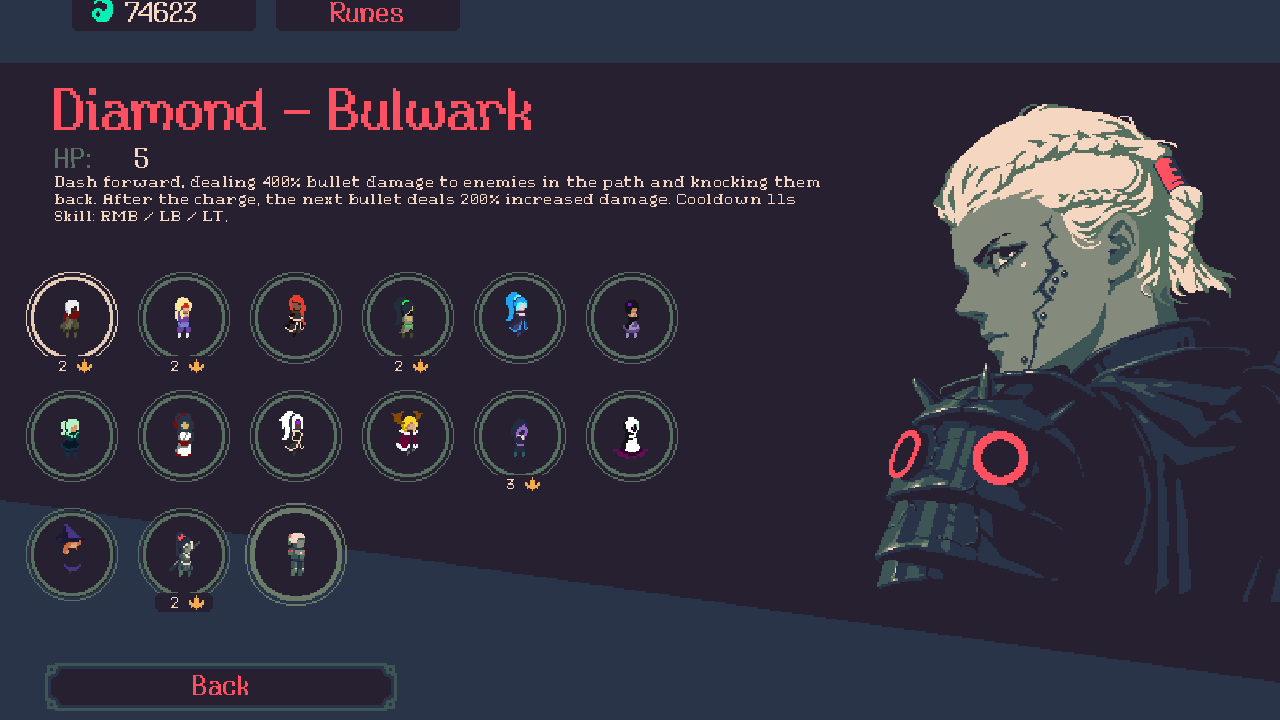
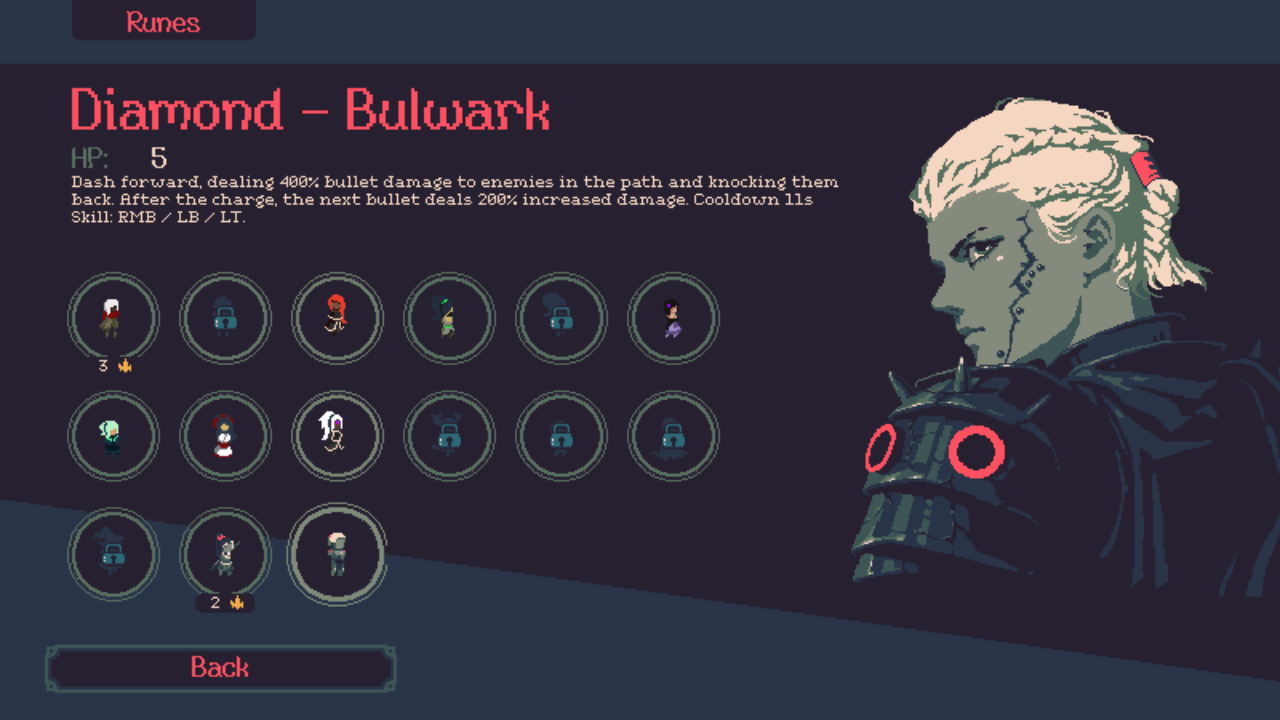
Refresh README gallery to remove obsolete currency UI

diff --git a/validation/ReadmeScreenshotChecks.cs b/validation/ReadmeScreenshotChecks.cs
@@ -1,0 +1,31 @@
+using System.Collections;
+using System.Linq;
+using UnityEngine;
+using UnityEngine.InputSystem;
+using UnityEngine.InputSystem.LowLevel;
+using flanne;
+using flanne.TitleScreen;
+namespace TwentyMinutes.Modernization.Validation;
+public partial class RuntimeChecks
+{
+ IEnumerator CheckReadmeScreenshots(TitleScreenController title)
+ {
+  SetPhase("readme-selector-captures");RunResume.Invalidate();var pad=InputSystem.AddDevice<Gamepad>("ReadmeScreenshotController");
+  while(!Active(title.mainMenu)||!title.mainMenu.interactable||title.mainMenu.GetComponent<CanvasGroup>().alpha<.999f)yield return null;
+  InputSystem.QueueStateEvent(fixtureMouse,new MouseState{position=new Vector2(-100,-100)});yield return null;
+  var bulwark=Characters.Data["Dimond_Portrait"];var diamond=Progression.Gates.Single(g=>g.Id=="character:Diamond");
+  var earned=Progression.State.earned.ToArray();
+  Progression.State.earned.Add("character:"+bulwark.name);Progression.State.earned.RemoveAll(id=>id==diamond.Id);Progression.Refresh();
+  yield return PadClick(pad,title.mainMenu.transform,Entries(title.mainMenu)[0].button);yield return HeaderReady(title,title.characterMenu);
+  Screen.SetResolution(1280,720,false);yield return WaitDisplay(1280,720);
+  if(!ColorfulStyle.Instance.Enabled)ColorfulStyle.Instance.Toggle();
+  int index=Characters.Slots["Dimond_Portrait"];yield return SelectorMove(pad,title.characterMenu,Entries(title.characterMenu)[index].button);
+  RequireCharacterPreview(title,index);HeaderContract(title);yield return Capture("android-bulwark.png");
+  index=Characters.Items(title.characterMenu).FindIndex(x=>x.data==diamond.Data);yield return SelectorMove(pad,title.characterMenu,Entries(title.characterMenu)[index].button);
+  RequireCharacterPreview(title,index);HeaderContract(title);
+  Require(SelectorText().Contains(diamond.Goal)&&!SelectorText().Contains("Last attempt:"),"current Diamond preview shows its concise milestone condition");
+  yield return Capture("unlock-diamond.png");
+  Progression.State.earned.Clear();Progression.State.earned.AddRange(earned);Progression.Refresh();Progression.Save();
+  SetPhase("PASS");Log("complete","Unretouched native README selectors from the published production DLL; isolated Bulwark ownership and locked Diamond fixture restored");Application.Quit(0);
+ }
+}

diff --git a/validation/RuntimeChecks.cs b/validation/RuntimeChecks.cs
@@ -119,6 +119,7 @@ public partial class RuntimeChecks:MonoBehaviour
         if(testMode=="sprite-status-visuals"){yield return CheckElementVisuals();yield break;}
         if(testMode.StartsWith("shared-runes-")){yield return CheckSharedRunes(testMode);yield break;}
         if(testMode.StartsWith("roster-header-")){yield return CheckRosterHeader(title,testMode.EndsWith("probe"));yield break;}
+        if(testMode=="readme-screenshots"){yield return CheckReadmeScreenshots(title);yield break;}
         if(testMode.StartsWith("rune-rewards-")){yield return CheckRuneRewards(testMode);yield break;}
         if(testMode.StartsWith("elements-")){yield return CheckElements(testMode);yield break;}
         if(testMode.StartsWith("elites-")){yield return CheckElites(testMode);yield break;}

diff --git a/docs/images/SOURCES.md b/docs/images/SOURCES.md
@@ -13,14 +13,14 @@ These PNGs are byte-for-byte copies of existing Windows test captures, inspected
[10 lines of base64/hex data omitted]
 
 Title/rune/Custom captures retain their recorded historical workflows. The current HUD is the1280×7201.1.7 workflow with controlled real Lilith/Ghost Friend/stat acquisitions; paired900×900/1024×768 and fresh-process Continue renders are inspected. The upgrade chart is the native Magic Lens selection in the current run; no natural progression claim. The native Options and concise Diamond preview are actual1920×1080 controller workflows. Source evidence remains local; proprietary game inputs and raw profiles are not distributed.
 
-The Bulwark selection capture comes from S2/run-22. Its displayed description and starting HP were compared with the current installed 1.1.2 `Assets/characters/characters.json`; both match. Its unlocked roster is a test profile.
+The Bulwark and Diamond selector captures now come from the published v1.3.5 production DLL. The validation-only fixture waits for the native title transition, selects each character through actual controller navigation, verifies the exact PointsUI owner is hidden and Runes is aligned left, then restores the isolated profile ownership. No live profile or game installation was changed.
 
 The current native Options capture includes Metrics and Zoom out with an opaque background. Fullscreen request flags are verified while the isolated renderer stays windowed, preserving the desktop. Companion HUD captures at1024×768 verify the corrected right skill column. No phone deployment/runtime of1.1.5 is claimed.
 # Android updater capture
@@ -32,3 +32,9 @@ The1.1.7 HUD and interaction captures are current127 controlled native acquisiti
 The final1.1.7 interaction layout supersedes127: currentrun-131 places the native path left beside its description and aligned Benefits/Penalties in the right column. Square/4:3/16:9 full bounds and rendered captures are verified, including character portrait and weapon penalty. Native Options125 has no Metrics shortcut suffix. All gallery files are exact unretouched evidence copies.
 
[1 lines of base64/hex data omitted]
+
[1 lines of base64/hex data omitted]
+
+## README gallery refresh — 2026-10-29
+
+The two selector images, Custom menu and exploration contents above are refreshed with inspected unretouched evidence. Current selectors show no wallet; Custom says Score only; exploration shows Score. The older `element-wind.png`, `elite-aura.png`, `elite-tiers.png`, `poi-glow.png`, `results-controller.png` illustrations retain Credits/Earned labels and are no longer embedded in the current README. Their files and original provenance remain historical evidence. The current sprite-status capture already illustrates wind cues and an enlarged elite. No runtime feature was removed or changed.

diff --git a/README.md b/README.md
@@ -40,15 +40,11 @@ Lightning gains a small stunning splash and Mastery chains scaled by Pierce + Bo
 
 ![Sprite-masked burning, electrical and wind effects, including an enlarged elite](docs/images/element-status.png)
 
-![Gale pulse and wind-control cues](docs/images/element-wind.png)
-
 *Controlled Windows fixtures show the actual new effects. Both artwork modes, native menus, mixed builds, current/older Continue and scenario transitions are verified; natural playtest balance remains for player feedback. Final exact-package and public-download acceptance is recorded in [PROGRESS.md](docs/PROGRESS.md).*
 
 ### Face enhanced regular enemies
 
 Every **200 kills** earns an Elite opportunity: **3× health and XP**, **25% larger width/height**, a thin glowing **red sprite contour**, and **50% faster firing** for elite Eyes. The contour follows the animation; native facing retains the larger dimensions, including Forest exploders.
-
-![Larger Forest exploder with a glowing sprite outline beside an ordinary exploder](docs/images/elite-aura.png)
 
 **Endless** adds Elite+ after every **10 defeated Elites**, and Elite++ after every **5 defeated Elite+** enemies. Each tier repeats the previous multipliers:
 
@@ -60,8 +56,6 @@ Every **200 kills** earns an Elite opportunity: **3× health and XP**, **25% lar
 
 Scheduled minibosses/bosses remain separate. Higher-tier claims preserve owed lower-tier promotions, and all counters survive Continue. Other modes retain ordinary Elites. [Full rules](docs/ELEMENTS.md#enhanced-regular-enemies).
 
-![Elite, Elite+ and Elite++ with animated red, amber and violet outlines](docs/images/elite-tiers.png)
-
 *Controlled native Windows tests use actual elite defeats and XP collection, with the ordinary kill counter advanced to exercise tier boundaries. Both artwork modes, three viewport shapes, firing intervals, saved cadence and ordinary pool reuse are verified; these captures do not establish natural full-run balance.*
 
 ### Play the Android additions with desktop controls
@@ -70,7 +64,7 @@ Charge Cannon brings three weapon evolutions. Gale and Bulwark bring their chara
 
 ![Diamond - Bulwark in the native Windows character selector, with its dash skill and portrait](docs/images/android-bulwark.png)
 
-*Windows selection test using an unlocked test profile. The displayed Bulwark description and starting HP match the prepared v1.1.2 character data.*
+*Unretouched capture using the published v1.3.5 game DLL. Only Bulwark ownership is granted for this isolated test; the current selector hides the obsolete currency badge and aligns Runes left.*
 
 ### Read your build without a panel
 
@@ -106,10 +100,6 @@ When one target gains an attribute and loses another, it appears **once under Mi
 
 Uncollected chests **do not expire**. Normal fog reveal keeps them visible when their edge pointer hides. Within eight world units, a small glow reveals content: teal XP, rose healing, violet magnet, blue freeze, orange frenzy, lime upgrades and pink character upgrades. It fades with distance; boss presentation is unchanged.
 
-![Nearby exploration chests reveal their content with native colored glow](docs/images/poi-glow.png)
-
-*Controlled Windows test with fixed Magnet, Freeze and Frenzy rewards in Sprites Reborn. Both artwork modes and square/4:3/16:9 views are verified.*
-
 Mint chests appear every **60–90 combat seconds**, with at most **three uncollected exploration chests**. Common rewards can appear together in different directions; the strongest upgrades are rarer. Rewards include XP, healing, magnet, freeze, frenzy and eligible native upgrades. **Exploration chests no longer award credits.**
 
 Open-map placement varies across **5–30 seconds of walking**, with viewport and wall limits. XP chests give **30% of the current level's full requirement**, including earned XP bonuses. Edge indicators show the **actual contents**, including the exact stored upgrade icon; the number is **distance in game units**. Boss treasure retains its gold chest pointer, independent of the three-chest cap. Rewards, positions and timers survive Continue. Old unopened credit chests become XP; credits already earned before updating retain their normal payout.
@@ -123,10 +113,6 @@ XP indicators reuse the native green experience pickup. Healing uses the native 
 ### Finish a run with the controller
 
 Victory and death show scores, the character/weapon loadout and **Try Again / Quit To Menu**, without the redundant skill list. Results navigation stays on those two buttons. Shown menus own controller focus, including recovery on the first controller input after switching from the mouse; no frame-by-frame focus override.
-
-![Native victory results without the skill list, focused on Quit To Menu](docs/images/results-controller.png)
-
-*Windowless Windows test with an actual Forest boss defeat, controlled combat clock, native victory, controller Retry, death and Quit. The test profile's score is not a natural full-run balance result.*
 
 ### Track clears at the selected difficulty
 
